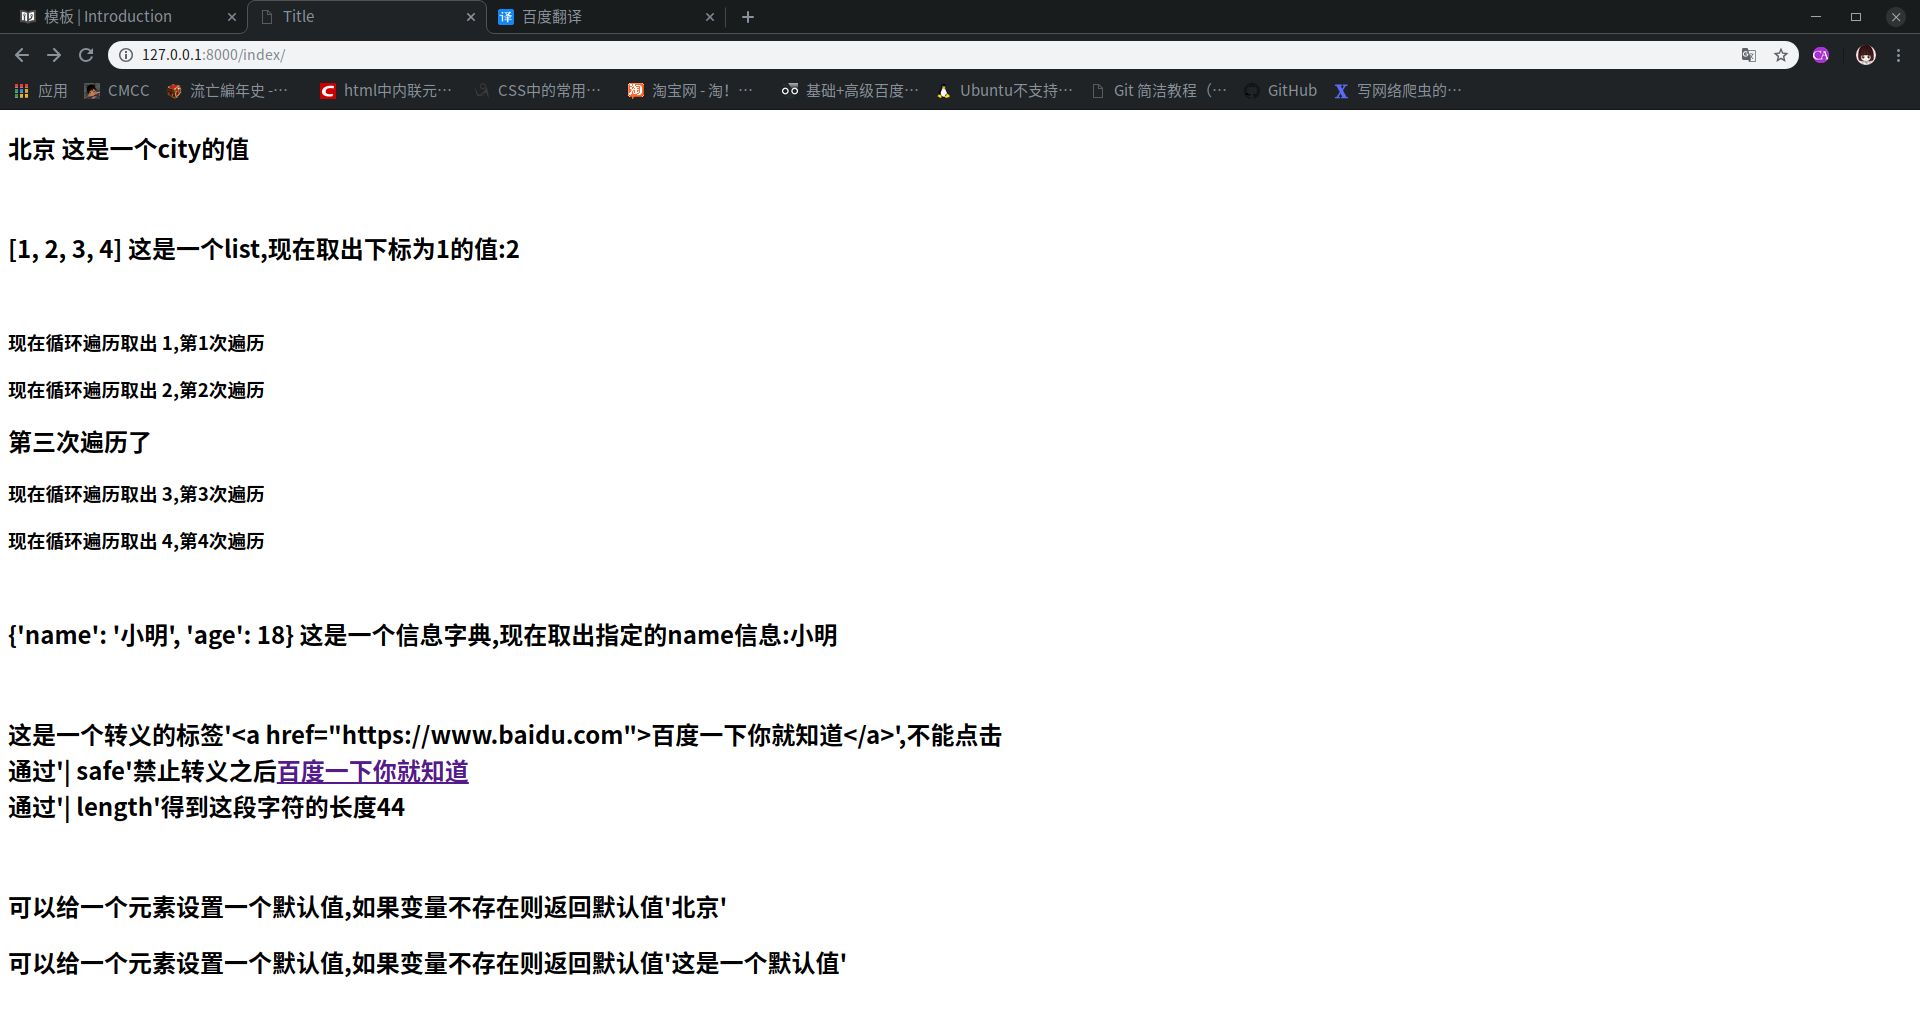
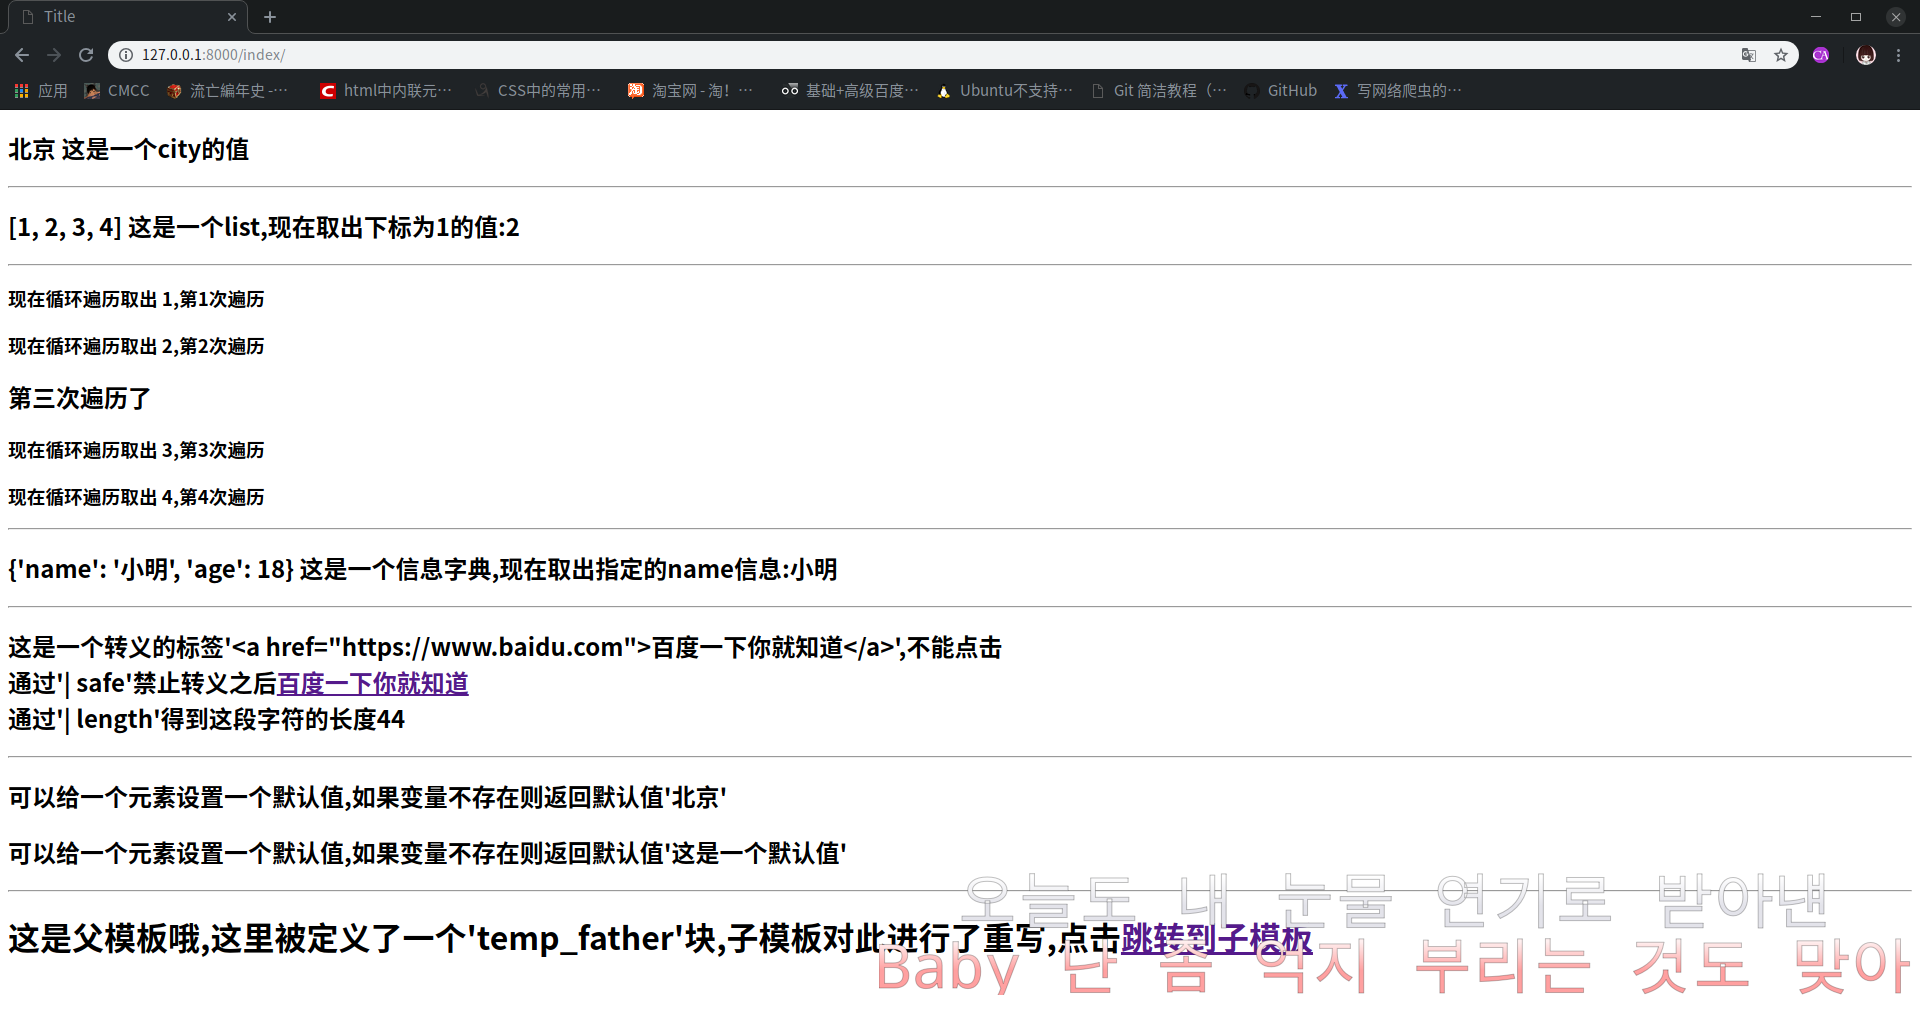
增加模板部分笔记

diff --git a/Django/11_模板.md b/Django/11_模板.md
@@ -1,44 +1,73 @@
 # 模板
 
-## 实例
+## 1 实例
+
+### 1.1 views定义
 
 ```
-<h2>{{ city }} 这是一个city的值</h2>
-<br>
-
-<h2>{{ list }} 这是一个list,现在取出下标为1的值:{{ list.1 }}</h2>
-<br>
-
-{% for i in list %}
-    {% if forloop.counter == 3 %}
-        <h2>第三次遍历了</h2>
-    {% endif %}
-    <h3>现在循环遍历取出 {{ i }},第{{ forloop.counter }}次遍历</h3>
-{% endfor %}
-<br>
-
-<h2>{{ attr }} 这是一个信息字典,现在取出指定的name信息:{{ attr.name }}</h2>
-<br>
-
-<h2>这是一个转义的标签'{{ labels }}',不能点击
-    <br>
-    通过'| safe'禁止转义之后{{ labels | safe }}
-    <br>
-    通过'| length'得到这段字符的长度{{ labels | length }}
-</h2>
-
-<br>
-<h2>可以给一个元素设置一个默认值,如果变量不存在则返回默认值'{{ city | default:'这是一个默认值' }}'</h2>
-<h2>可以给一个元素设置一个默认值,如果变量不存在则返回默认值'{{ adsfafsadf | default:'这是一个默认值' }}'</h2>
+def temp_index(request):  #创建了模板对应的视图函数
+    content = {
+        'city':'北京',
+        'list':[1,2,3,4],
+        'attr':{'name':'小明','age':18},
+        'labels':'<a href="https://www.baidu.com">百度一下你就知道</a>',
+        'sum':'<a href="http://127.0.0.1:8000/index_sum">跳转到子模板</a>',
+    }
+    return render(request,'index.html',context=content)
+def temp_index_sum(request): #创建了子模板中视图函数
+    return render(request,'index_sum.html')
 ```
 
+### 1.2 html文件中定义
+
+```
+    <h2>{{ city }} 这是一个city的值</h2>
+    <hr>
+    <h2>{{ list }} 这是一个list,现在取出下标为1的值:{{ list.1 }}</h2>
+    <hr>
+    {% for i in list %}
+        {% if forloop.counter == 3 %}
+            <h2>第三次遍历了</h2>
+        {% endif %}
+        <h3>现在循环遍历取出 {{ i }},第{{ forloop.counter }}次遍历</h3>
+    {% endfor %}
+    <hr>
+    <h2>{{ attr }} 这是一个信息字典,现在取出指定的name信息:{{ attr.name }}</h2>
+    <hr>
+    <h2>这是一个转义的标签'{{ labels }}',不能点击
+        <br>
+        通过'| safe'禁止转义之后{{ labels | safe }}
+        <br>
+        通过'| length'得到这段字符的长度{{ labels | length }}
+    </h2>
+    <hr>
+    <h2>可以给一个元素设置一个默认值,如果变量不存在则返回默认值'{{ city | default:'这是一个默认值' }}'</h2>
+    <h2>可以给一个元素设置一个默认值,如果变量不存在则返回默认值'{{ adsfafsadf | default:'这是一个默认值' }}'</h2>
+    <hr>
+    <div>
+        {% block temp_father %}
+        <h1>这是父模板哦,这里被定义了一个'temp_father'块,子模板对此进行了重写,点击{{ sum | safe }}</h1>
+        {% endblock temp_father %}
+    </div>
+```
+
+> **定义子模板**
+
+```
+{% extends 'index.html' %}
+{% block temp_father %}
+<h1>重写完成'temp_father'块完成</h1>
+{% endblock temp_father %}
+```
 
 
 ![](/home/xiantanluohua/Desktop/Project_Django/Django/11_模板的实例.png)
 
-# 模板使用
 
-## 1 配置
+
+## 2 模板使用
+
+### 2.1 配置
 
 在工程中创建模板目录templates。
 
@@ -62,7 +91,7 @@ TEMPLATES = [
 ]
 ```
 
-## 2 定义模板
+### 2.2 定义模板
 
 在templates目录中新建一个模板文件，如index.html
 
@@ -311,17 +340,13 @@ not
 预留区域，可以编写默认内容，也可以没有默认内容
 {% endblock  名称 %}
 ```
-
 **子模板**
-
 标签extends：继承，写在子模板文件的第一行。
 
 ```
 {% extends "父模板路径"%}
 ```
-
 子模版不用填充父模版中的所有预留区域，如果子模版没有填充，则使用父模版定义的默认值。
-
 填充父模板中指定名称的预留区域。
 
 ```
